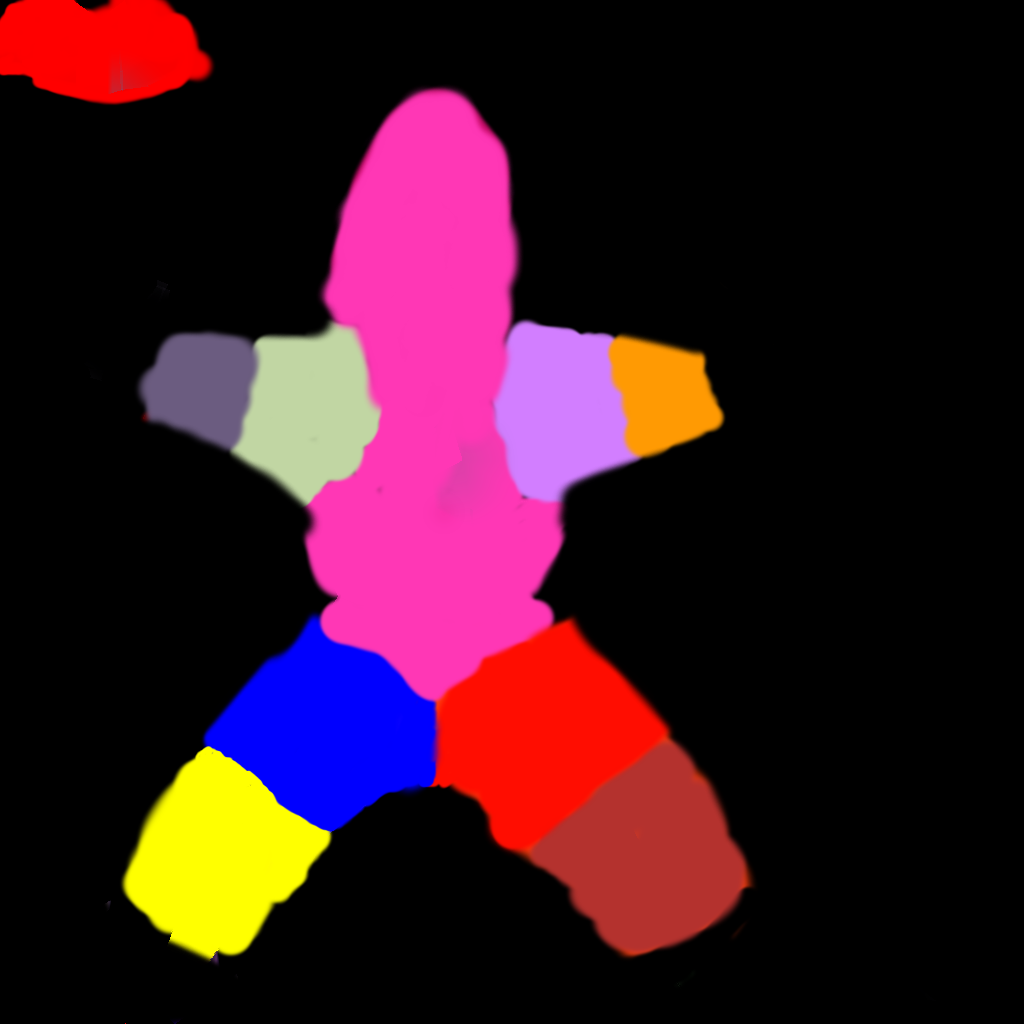
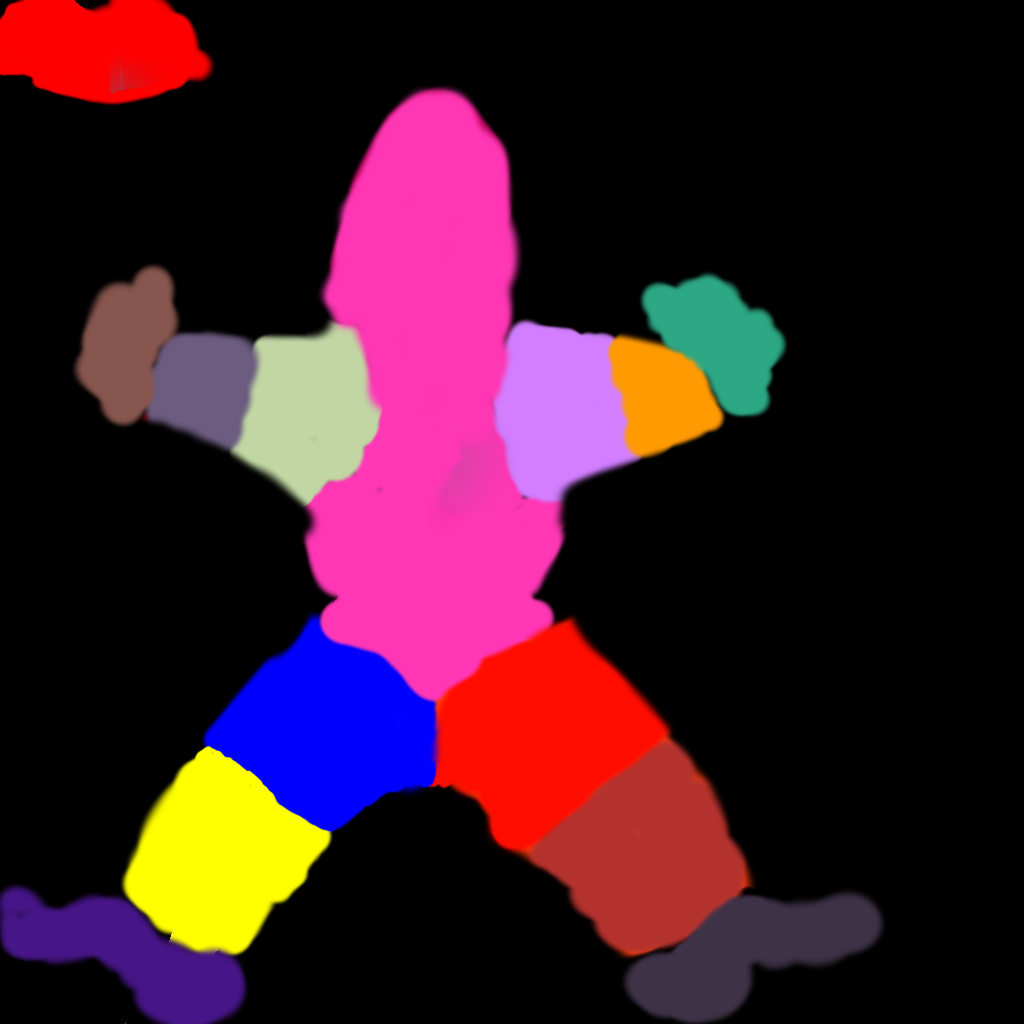
Random model rotation

diff --git a/synth.py b/synth.py
@@ -1,13 +1,11 @@
 import bpy, random
 
-rad2deg = 360 / 6.28
-
 def euler_rotate(bone):
     bone.rotation_mode = 'XYZ'
     bone.rotation_euler = [
-            random.gauss(0, 0.5),
-            random.gauss(0, 0.5),
-            random.gauss(0, 0.5)]
+            random.gauss(0, 0.25),
+            random.gauss(0, 0.25),
+            random.gauss(0, 0.1)]
 
 for obj in bpy.data.objects:
     if obj.type == 'CAMERA':
@@ -17,7 +15,7 @@ for obj in bpy.data.objects:
     # TODO: generalize to other models
     if obj.name == 'MaleArm':
         obj.rotation_mode = 'XYZ'
-        obj.rotation_euler = [-30 / rad2deg, 0 / rad2deg, 45 / rad2deg]
+        obj.rotation_euler = [0, 0, random.gauss(3.14/4, 3.14/8)]
 
         for bone in obj.pose.bones:
             print(bone.name)
